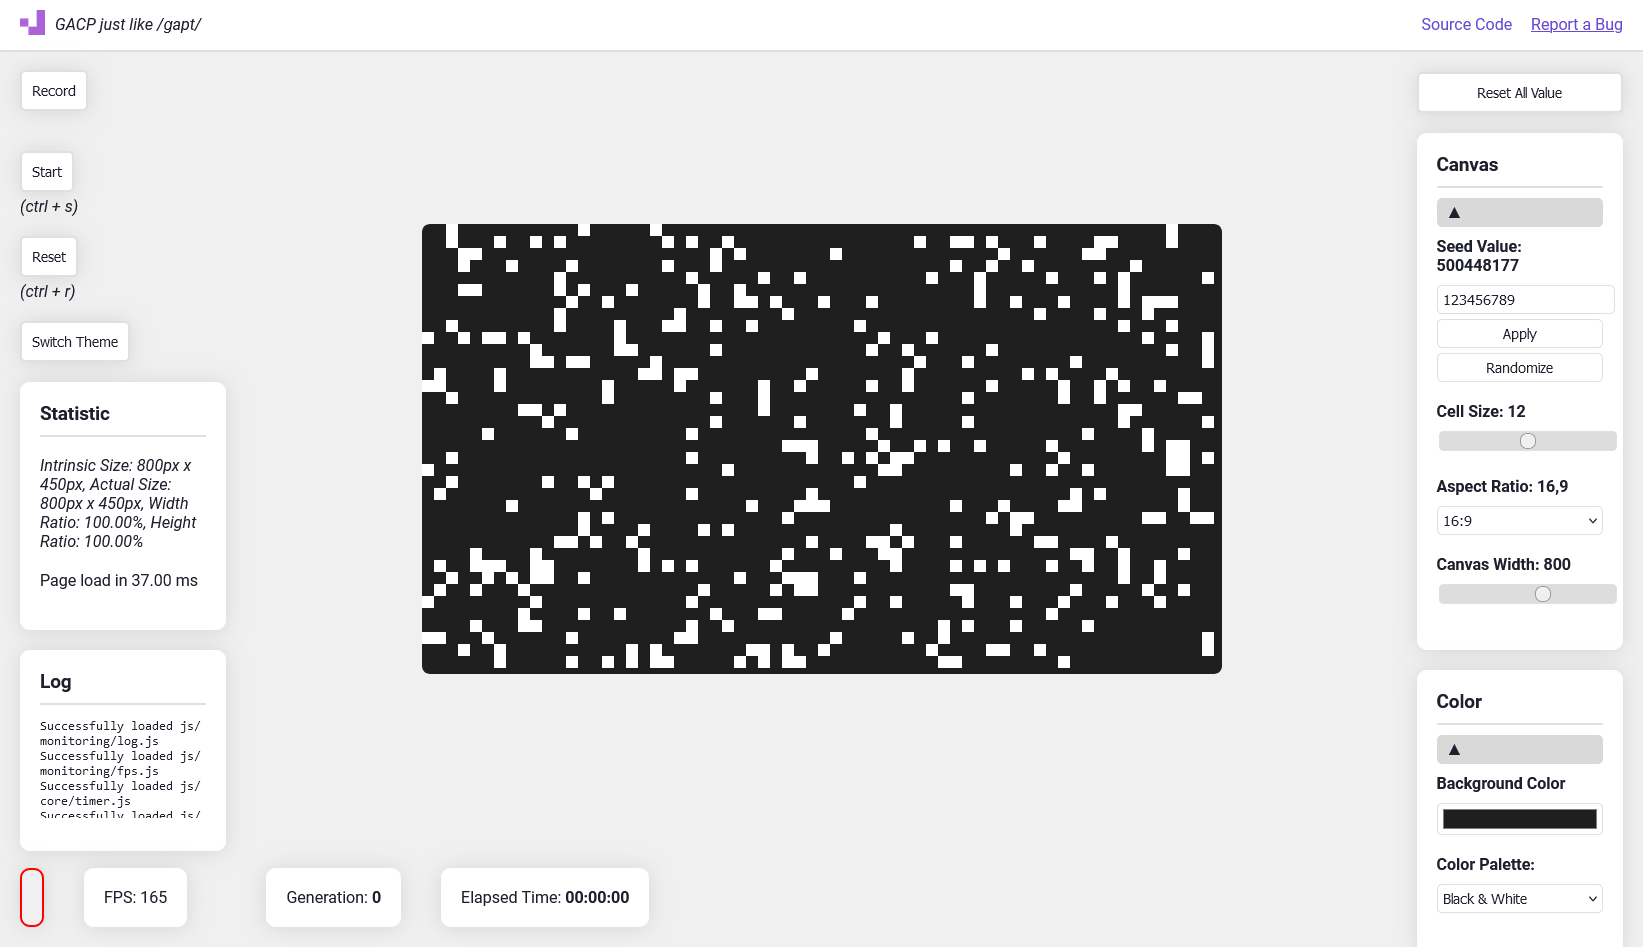
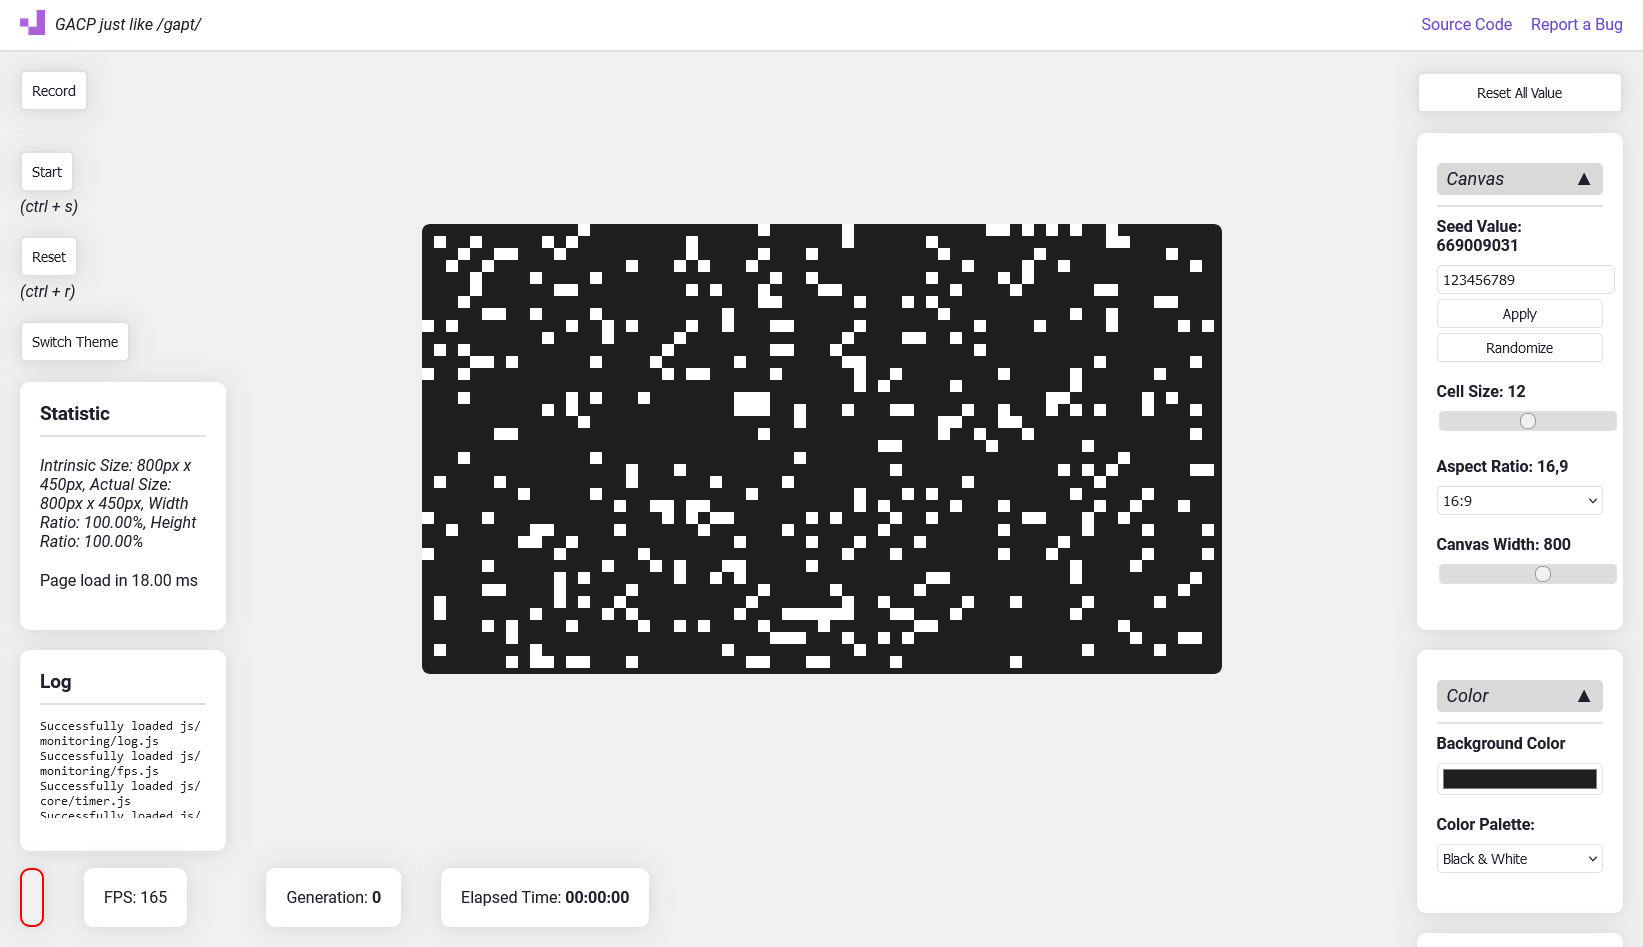
review windows style
Make the windows more understandable

Changed region(s): [[0.2483, 0.2144, 0.745, 0.7043], [0.8691, 0.1531, 0.9933, 1.0]]

diff --git a/src/app.html b/src/app.html
@@ -38,8 +38,7 @@
         </div>
 
         <div class="controls">
-            <h3>Canvas</h3>
-            <em onclick="toggleContent(this)" class="toggleEm"><span class="toggle-icon">▲</span></em>
+            <em onclick="toggleContent(this)" class="toggleEm">Canvas <span class="toggle-icon">▲</span></em>
             <div class="visible-content">
                 <div class="control-group">
                     <label for="seedInput">Seed Value: <span id="seedValue"></span></label>
@@ -70,8 +69,7 @@
         </div>
 
         <div class="controls">
-            <h3>Color</h3>
-            <em onclick="toggleContent(this)" class="toggleEm"><span class="toggle-icon">▲</span></em>
+            <em onclick="toggleContent(this)" class="toggleEm">Color <span class="toggle-icon">▲</span></em>
             <div class="visible-content">
                 <div class="control-group">
                     <label for="backgroundColor">Background Color</label>
@@ -97,8 +95,7 @@
         </div>
 
         <div class="controls">
-            <h3>Rules</h3>
-            <em onclick="toggleContent(this)" class="toggleEm"><span class="toggle-icon">▲</span></em>
+            <em onclick="toggleContent(this)" class="toggleEm">Rules <span class="toggle-icon">▲</span></em>
             <div class="visible-content">
                 <div class="control-group">
                     <label for="surviveRules">Survive Rules:</label>
@@ -116,8 +113,7 @@
         </div>
 
         <div class="controls">
-            <h3>Record</h3>
-            <em onclick="toggleContent(this)" class="toggleEm"><span class="toggle-icon">▲</span></em>
+            <em onclick="toggleContent(this)" class="toggleEm">Record <span class="toggle-icon">▲</span></em>
             <div class="visible-content">
                 <div class="control-group">
                     <label for="recordDuration">Record Duration (s): <span

diff --git a/src/css/styles.css b/src/css/styles.css
@@ -184,13 +184,6 @@ label {
     color: var(--title-color);
 }
 
-h3 {
-    color: var(--title-color);
-    border-bottom: 2px solid var(--border-color);
-    padding-bottom: 10px;
-    margin: 0;
-}
-
 input[type="text"],
 input[type="range"],
 input[type="color"],
@@ -303,7 +296,16 @@ canvas {
     max-height: 0;
 }
 
+h3 {
+    color: var(--title-color);
+    border-bottom: 2px solid var(--border-color);
+    padding-bottom: 10px;
+    margin: 0;
+}
+
 .visible-content {
+    border-top: 2px solid var(--border-color);
+    padding-top: 10px;
     max-height: fit-content;
 }
 
@@ -317,6 +319,7 @@ canvas {
     padding: 5px 10px;
     border-radius: 5px;
     transition: background-color 0.3s ease;
+    font-size: 18px;
 }
 
 .toggleEm:hover {
